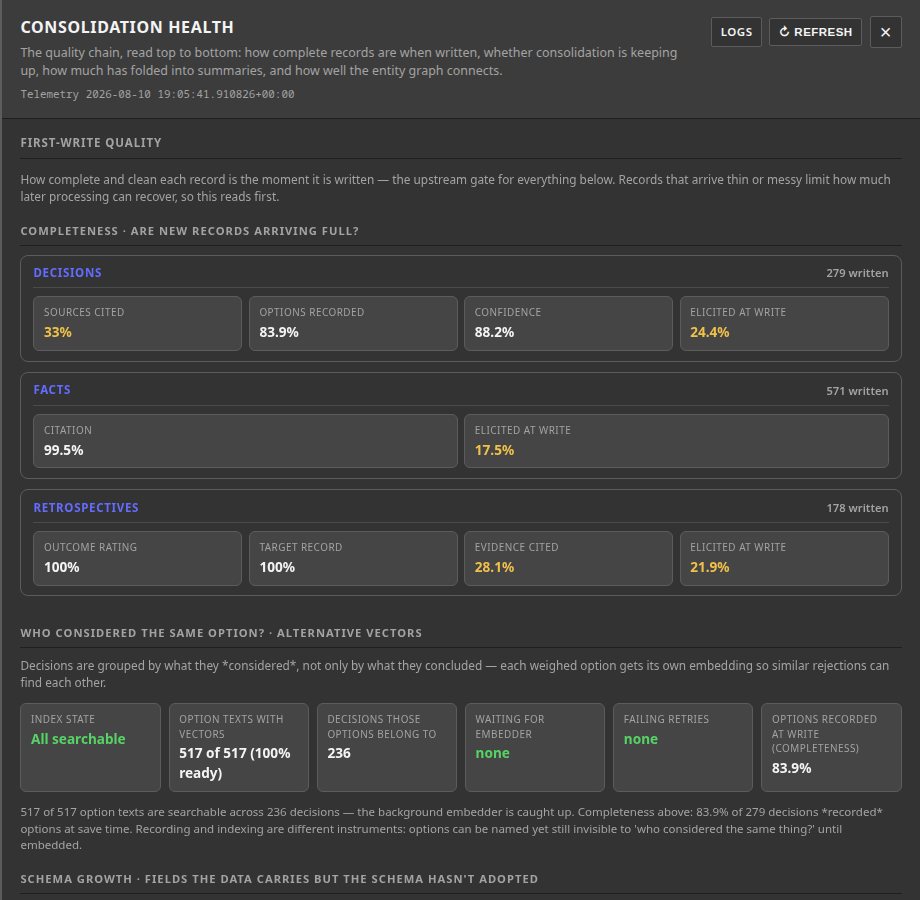
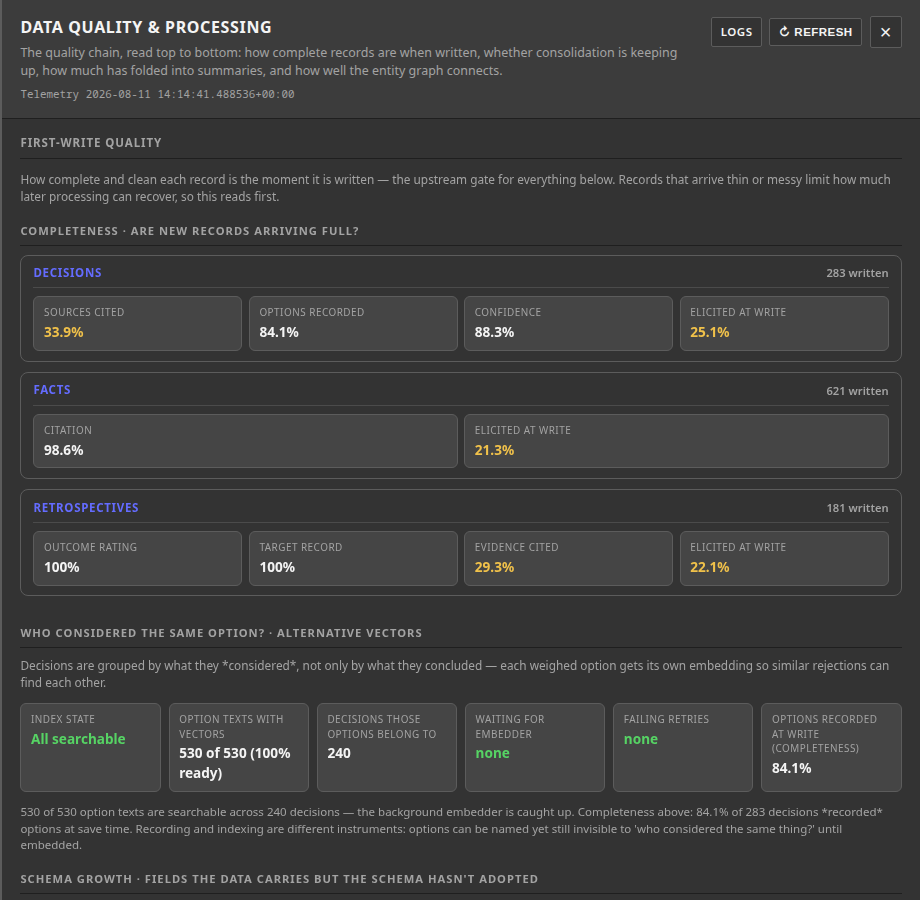
docs: update telemetry explanations and screenshots for v0.9.9

diff --git a/README.md b/README.md
@@ -128,7 +128,7 @@ Three browser views (**Monitor**, **Diagram**, **Logs**) over the **same two ups
 | Schema Postgres panels | `telemetry.breakdown` in the telemetry payload |
 | First-write quality · schema conformance | `telemetry.spine` + `telemetry.compliance` |
 | Throughput & latency drawer | `telemetry.latency` |
-| Consolidation tile + drawer | `/health.consolidation` + `telemetry.consolidation` (+ `entity_graph` / `neo4j`) |
+| Data Quality & Processing drawer | `/health.consolidation` + `telemetry.consolidation` + spine + rem fairness |
 | Log panes | Journal + audit files the framework writes |
 | Diagram agent/daemon flows | Same `agent-audit.jsonl` as the **Agent audit** log tab |
 
@@ -146,30 +146,33 @@ Captured from a running monitor (`./scripts/capture-screenshots.sh`).
 
 *(Same frame as the hero image under the title — recaptured with current UI.)*
 
-A full-width **status deck** above the charts, in three labelled rows — **Drill-down** (Consolidation, Throughput & latency, Schema breakdown), **Backlog & queues** (Dream backlog, REM / NREM split, Pipeline queues), and Backup / **Infrastructure** (component grid + **LLM pool** when the gateway has more than one backend) — followed by backlog charts. All from gateway telemetry (cached polls + live `GET /health`). Range selector (`1h`–`all`) filters the local poll cache.
+A full-width **status deck** above the charts, in three labelled rows — **Drill-down** (Data Quality & Processing, Throughput & latency, Schema & Integrity), **Backlog & queues** (Dream backlog, Pipeline queues), and Backup / **Infrastructure** (component grid + **LLM pool** when the gateway has more than one backend) — followed by backlog charts. All from gateway telemetry (cached polls + live `GET /health`). Range selector (`1h`–`all`) filters the local poll cache. Note: NREM density signals have been deprecated in the UI in favor of strict (project, domain) gating backlog to prevent conflation.
 
 On **gateway ≥0.8.9**, the Infrastructure hint includes the non-secret config summary (e.g. `Gateway 0.8.9 · API 3 · 2 LLM backends · local · embed 24k`), and each pool chip badges **local** or **external** from `has_credential` (optional `model` override appears in the chip meta). No API keys ever appear.
 
 ![Monitor — Gateway health, status deck, infrastructure, LLM pool, backlog charts](docs/images/dashboard.png)
 
-### Consolidation health (side drawer)
+### Data Quality & Processing (side drawer)
 
-Opens from **Drill-down → Consolidation**. The drawer reads the gateway's consolidation telemetry and `GET /health`, and shows the dream cycle's health on two axes — what it has **produced** (coverage) and what it has **to work with** (graph health):
+Opens from **Drill-down → Data Quality & Processing**. The drawer reads the gateway's consolidation telemetry, `GET /health`, and spine metrics. It shows the pipeline's operational health and processing queue (upstream spine + rem queues):
 
 - **First-write quality** (upstream, gateway v0.6.2+) — completeness of high-signal fields, schema-growth candidates, integrity (including off-vocabulary labels/links from `telemetry.compliance`). Non-decision totals include facts **and** retrospectives after framework API v2.
-- **Liveness** — health verdict, last outcome, time since the last successful fold **with cycle type**, stalled type list, last active cycle, and the stall threshold. The Status tile names which type(s) are stalled (`Stalled [fact consolidation]`) because the gateway ORs stall across types — one healthy cycle can leave the headline red while a sibling is still folding. A deferred cycle with an **explicit** empty eligible census reads as **idle**; unknown eligibility keeps the deferred reason (e.g. pool busy). The only red state is a genuine stall.
+- **Liveness** — health verdict, last outcome, time since the last successful fold **with cycle type**, stalled type list, last active cycle, and the stall threshold. 
 - **Coverage** (output side) — from the `telemetry.neo4j` fact census: REM-processed facts, how many are consolidated (count and %), and how many still await a fold. **Consolidations by type** lists the summaries produced — insights, thematic, community — with any superseded count.
-- **Graph health · entity resolution** (input side, gateway v0.6.0+; v0.6.1 semantics) — from `telemetry.entity_graph`: total entities, the **Mentioned** share (entities with live fact/decision mentions — the ones that can seed a fold), the **Structural only** share (entities holding graph edges but no live mention), **Orphans** (truly dangling degree-0 nodes — a hygiene defect, flagged when nonzero), **Singletons**, and the alias layer (**Alias edges** · groups · alias coverage · **largest alias group**) written by the v0.6.1 entity-resolution alias-writer. The counts include entities from records still awaiting REM — REM is the stage that builds an entity's relationships — so an **Awaiting REM** figure is shown and the fragmentation share reads as an upper bound until REM catches up.
-- **REM reliability · stranded & fairness** (gateway ≥0.7.x, decision 819; fairness ≥0.8.6 / fact 895 · decision 894) — from `telemetry.neo4j`: **Dead-lettered** (records retired at the retry cap) and **Failing** (still accumulating chargeable failures but not yet retired — the "stranded record" case: picked up repeatedly, never succeeded, never blamed, previously invisible), plus the **Retry cap** (warn styling when nonzero). Gateway ≥0.8.6 also surfaces **Passed over (yield)** and **Starved pending** as **instrument** counters (dashed/slate, not fault-warn): zeros under a thin backlog are honest dormancy; nonzero means the fairness path is live for before/after measurement.
-- **By cycle** — insight and fact-consolidation rows with outcome, last success, eligible clusters, oldest wait, last error, **24h activity** (runs, average cycle seconds, folds succeeded/attempted), and **Deferred/Idle (24h)** (decision 842, **provisional**: the per-consumer idle-clock split's timer values are reasoned defaults, not measured optima — a retrospective is owed once a full load cycle of this data accumulates). Insight empty runs and fact-consolidation folds differ by orders of magnitude in cost — read the per-type row, not only the headline.
+- **REM reliability · stranded & fairness** (gateway ≥0.7.x, decision 819; fairness ≥0.8.6 / fact 895 · decision 894) — from `telemetry.neo4j`: **Dead-lettered** (records retired at the retry cap) and **Failing** (still accumulating chargeable failures but not yet retired — the "stranded record" case: picked up repeatedly, never succeeded, never blamed, previously invisible), plus the **Retry cap** (warn styling when nonzero). Gateway ≥0.8.6 also surfaces **Passed over (yield)** and **Starved pending** as **instrument** counters (dashed/slate, not fault-warn).
+- **By cycle** — insight and fact-consolidation rows with outcome, last success, eligible clusters, oldest wait, last error, **24h activity**, and **Deferred/Idle (24h)**.
 
-![Consolidation health — liveness, fact coverage %, graph-health entity resolution, per-cycle table](docs/images/consolidation.png)
+![Data Quality & Processing — liveness, fact coverage, REM fairness, per-cycle table](docs/images/consolidation.png)
 
-### Schema breakdown (side drawer)
+### Schema & Integrity (side drawer)
 
-Opens from **Drill-down → Schema breakdown** — a slide-over panel on the right, not a separate page. Neo4j graph from `POST /memory/graph`; Postgres inventory from `telemetry.breakdown` (plus `technical_docs` / superseded counts).
+Opens from **Drill-down → Schema & Integrity** — a slide-over panel on the right, not a separate page. It presents database state/topology and entity graph hygiene. 
 
-![Schema breakdown — Neo4j labels, graph paths, telemetry record types and domains](docs/images/schema-breakdown.png)
+- **Graph health · entity resolution** (moved from consolidation drawer in Dreaming Cycle v2). From `telemetry.entity_graph`: total entities, the **Mentioned** share, the **Structural only** share, **Orphans**, **Singletons**, and the alias layer. Entity resolution is payload-only and no longer gates consolidation, hence its placement in Schema & Integrity rather than pipeline processing, to avoid implying a false upstream dependency that misleads operators debugging stalled pipelines.
+- **Neo4j labels and relationships** — from `POST /memory/graph`.
+- **Postgres inventory** — from `telemetry.breakdown` (plus `technical_docs` / superseded counts).
+
+![Schema & Integrity — Neo4j labels, graph paths, telemetry record types, entity resolution](docs/images/schema-breakdown.png)
 
 ### Diagram (`/diagram`)
 
